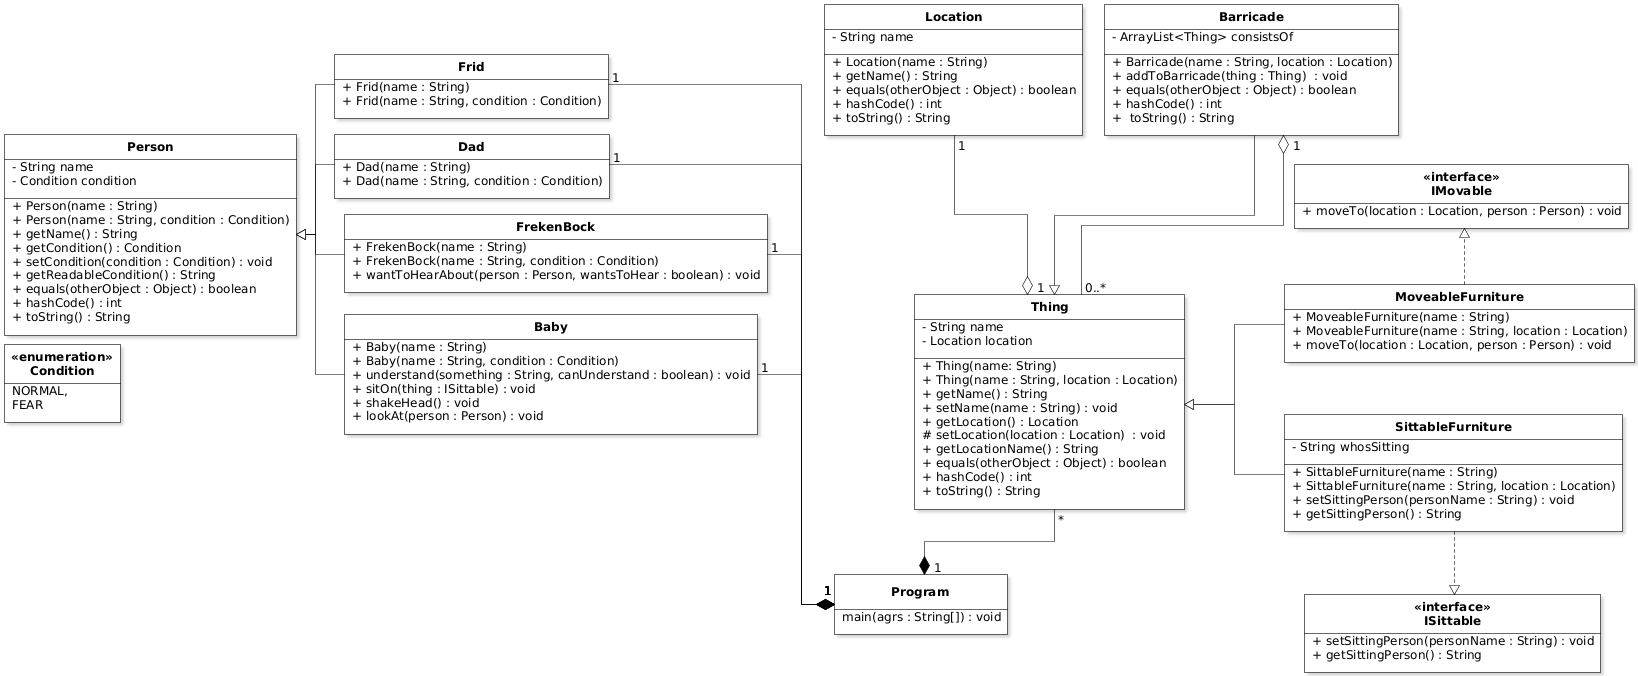
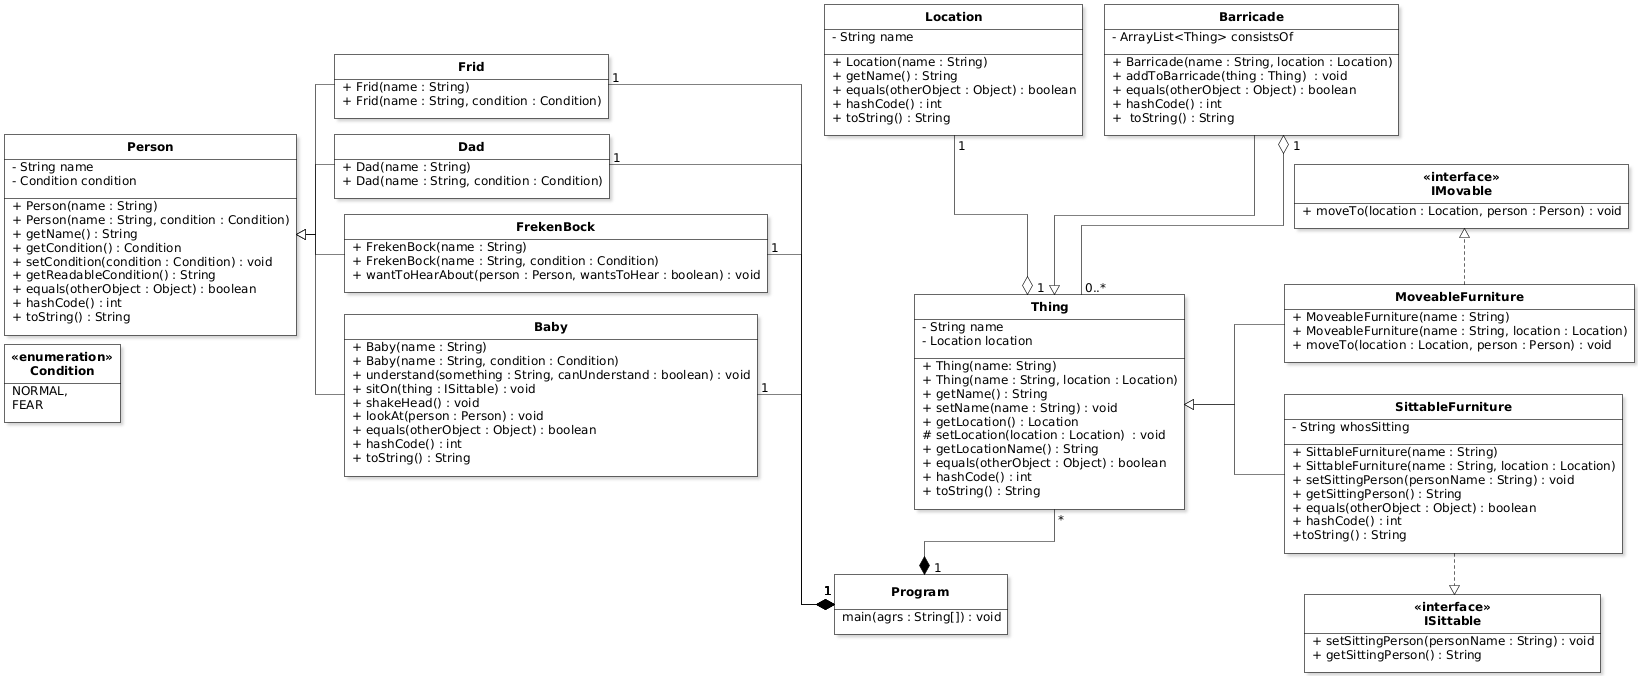
Fixed overriding when implementing

Changed region(s): [[0.7784, 0.5902, 0.9963, 0.8388], [0.2179, 0.6213, 0.467, 0.7145], [0.9652, 0.5902, 0.9963, 0.6213]]

diff --git a/Lab3/org/itmo/src/things/furniture/SittableFurniture.java b/Lab3/org/itmo/src/things/furniture/SittableFurniture.java
@@ -17,11 +17,13 @@ public class SittableFurniture extends Thing implements ISittable {
         super(name, location);
     }
 
+    @Override
     public void setSittingPerson(String personName){
         this.whosSitting = personName;
         System.out.print(personName + " сел на " + getName() + ". ");
     }
 
+    @Override
     public String getSittingPerson() {
         return whosSitting;
     }

diff --git a/Lab3/org/itmo/src/things/furniture/MovableFurniture.java b/Lab3/org/itmo/src/things/furniture/MovableFurniture.java
@@ -14,6 +14,7 @@ public class MovableFurniture extends Thing implements IMovable {
         super(name, location);
     }
 
+    @Override
     public void moveTo(Location location, Person person) {
         setLocation(location);
         System.out.print(person.getName() + " пододвинул " + getName() +  " к " + location.getName() + ". ");
